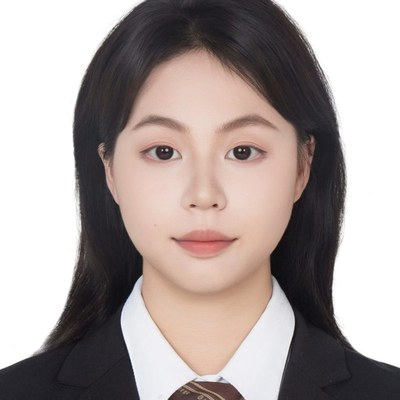
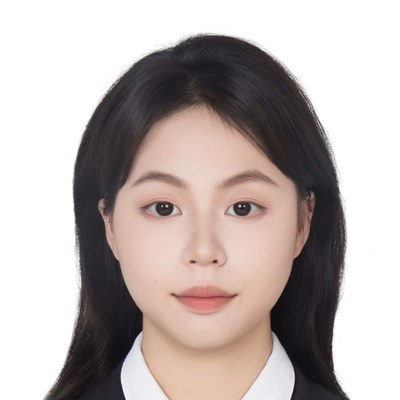
喜报补国自然面上项目名称；照片顶部偏置重裁+缓存参数

diff --git a/index.html b/index.html
@@ -181,7 +181,7 @@
       <li class="reveal" tabindex="0" data-link="https://doi.org/10.1016/j.ipm.2026.105180" data-detail="论文发表于 Information Processing &amp; Management（IF 8.0）：提出多尺度时序超图神经主题模型，从电子病历中挖掘潜在治疗模式。论文解读详见「数医智研」微信公众号。"><time datetime="2026-09">2026.09</time><div><strong>A multi-scale temporal hypergraph neural topic model for treatment pattern mining</strong><span>发表于 Information Processing &amp; Management（IF 8.0）· 详见「数医智研」公众号</span></div></li>
       <li class="reveal" tabindex="0" data-link="https://www.ijcai.org/proceedings/2026/891" data-detail="会议论文发表于人工智能顶级会议 IJCAI 2026：系统综述视觉-时空融合在交通预测中的跨模态对齐研究进展。"><time datetime="2026-09">2026.09</time><div><strong>Towards Vision-Spatiotemporal Fusion in Traffic Forecasting: A Survey on Cross-Modal Alignment</strong><span>发表于 IJCAI 2026 · 人工智能顶级会议</span></div></li>
       <li class="reveal" tabindex="0" data-detail="研究组 GitHub Pages 主页正式上线，包含研究组简介、研究方向、负责人介绍、新闻动态与加入我们等板块，将持续更新团队动态与研究成果。源码托管于 GitHub 组织 magic-lab-cdutcm，站点地址 magic-lab-cdutcm.github.io。"><time datetime="2026-09">2026.09</time><div><strong>MAGIC Lab 主页上线</strong><span>研究组 GitHub Pages 主页建成，持续更新动态与成果。</span></div></li>
-      <li class="reveal" tabindex="0" data-detail="国家自然科学基金委员会公布 2026 年度集中接收期项目评审结果，MAGIC Lab 获批国家自然科学基金面上项目。国家级项目的持续支持，将为团队在中医药数智化、医学人工智能方向的深入研究提供保障。喜报全文详见「数医智研」微信公众号。"><time datetime="2026-08">2026.08</time><div><strong>喜报 | MAGIC Lab 获批国家自然科学基金面上项目</strong><span>详见「数医智研」微信公众号。</span></div></li>
+      <li class="reveal" tabindex="0" data-detail="国家自然科学基金委员会公布 2026 年度集中接收期项目评审结果，MAGIC Lab 获批国家自然科学基金面上项目：「基于数字孪生与多智能体系统的针刺治疗偏头痛“虚拟脑”模型构建及应用研究」。国家级项目的持续支持，将为团队在中医药数智化、医学人工智能方向的深入研究提供保障。喜报全文详见「数医智研」微信公众号。"><time datetime="2026-08">2026.08</time><div><strong>喜报 | MAGIC Lab 获批国家自然科学基金面上项目</strong><span>「基于数字孪生与多智能体系统的针刺治疗偏头痛“虚拟脑”模型构建及应用研究」</span></div></li>
       <li class="reveal" tabindex="0" data-link="https://ieeexplore.ieee.org/abstract/document/11592597" data-detail="论文被 IEEE TKDE（IF 11.6）接收：提出多核化模糊粒离群检测器，延续团队在粒计算与离群检测方向的积累。"><time datetime="2026-06">2026.06</time><div><strong>Multi-Kernelized Fuzzy Granular Outlier Detector</strong><span>被 IEEE TKDE 接收（IF 11.6）· 粒计算离群检测方向</span></div></li>
       <li class="reveal" tabindex="0" data-link="https://ieeexplore.ieee.org/document/11657539" data-detail="论文被 IEEE Transactions on Multimedia 接收：提出协同多尺度个体与全局标签视角的标签分布学习方法。"><time datetime="2026-06">2026.06</time><div><strong>Label Distribution Learning via Collaborative Multi-Scale Individual and Global Label Perspectives</strong><span>被 IEEE Transactions on Multimedia 接收 · 标签分布学习方向</span></div></li>
       <li class="reveal" tabindex="0" data-link="https://www.sciencedirect.com/science/article/abs/pii/S1566253526002745" data-detail="论文被 Information Fusion（IF 17.4）接收：提出可解释混合域融合网络，用于主观记忆下降的早期智能诊断。"><time datetime="2026-04">2026.04</time><div><strong>An Interpretable Hybrid-Domain Fusion Network for Subjective Memory Concern Diagnosis</strong><span>被 Information Fusion 接收（IF 17.4）· 医工交叉方向</span></div></li>
@@ -214,7 +214,7 @@
     <p class="team-group reveal">教师 · FACULTY</p>
     <ul class="member-grid">
       <li class="member reveal">
-        <img class="m-avatar" src="assets/members/yang-yanrong.jpg" alt="杨彦荣照片">
+        <img class="m-avatar" src="assets/members/yang-yanrong.jpg?v=2" alt="杨彦荣照片">
         <h3 class="m-name">杨彦荣<span class="m-role">讲师 · 助理研究员</span></h3>
         <p class="m-dir">医学数据处理 · 智能计算 · 自适应光学</p>
         <p class="m-intro">长期从事人眼视光学与医工交叉研究，主持四川省自然科学基金一项，参研多项国家级项目。研究兴趣涵盖计算成像、数字图像处理与智能计算。</p>
@@ -226,7 +226,7 @@
       <span class="grade-label"><b>2024</b><i>级</i></span>
       <ul class="member-grid">
       <li class="member reveal">
-        <img class="m-avatar" src="assets/members/zhao-yuxin.jpg" alt="赵宇心照片">
+        <img class="m-avatar" src="assets/members/zhao-yuxin.jpg?v=2" alt="赵宇心照片">
         <h3 class="m-name">赵宇心<span class="m-role">2024级 · 中医药信息学</span></h3>
         <p class="m-dir">医学数据处理</p>
         <p class="m-meta"><a href="mailto:z1898260@163.com">z1898260@163.com</a></p>
@@ -237,13 +237,13 @@
       <span class="grade-label"><b>2025</b><i>级</i></span>
       <ul class="member-grid">
       <li class="member reveal">
-        <img class="m-avatar" src="assets/members/xiao-maolin.jpg" alt="肖茂淋照片">
+        <img class="m-avatar" src="assets/members/xiao-maolin.jpg?v=2" alt="肖茂淋照片">
         <h3 class="m-name">肖茂淋<span class="m-role">2025级 · 中医药人工智能</span></h3>
         <p class="m-dir">医学数据处理 · 大模型 · 药物发现</p>
         <p class="m-meta"><a href="mailto:xiaomaolin86@163.com">xiaomaolin86@163.com</a></p>
       </li>
       <li class="member reveal">
-        <img class="m-avatar" src="assets/members/chen-bowen.jpg" alt="陈博文照片">
+        <img class="m-avatar" src="assets/members/chen-bowen.jpg?v=2" alt="陈博文照片">
         <h3 class="m-name">陈博文<span class="m-role">2025级 · 生物医学工程</span></h3>
         <p class="m-dir">医学数据处理 · 药物发现</p>
         <p class="m-intro">中国人工智能学会会员，参与中药多靶标智筛平台开发，致力于 AI 药物建模、虚拟筛选与多靶标活性预测。</p>
@@ -255,19 +255,19 @@
       <span class="grade-label"><b>2026</b><i>级</i></span>
       <ul class="member-grid">
       <li class="member reveal">
-        <img class="m-avatar" src="assets/members/yan-huan.jpg" alt="严欢照片">
+        <img class="m-avatar" src="assets/members/yan-huan.jpg?v=2" alt="严欢照片">
         <h3 class="m-name">严欢<span class="m-role">2026级 · 中医药人工智能</span></h3>
         <p class="m-dir">医学数据处理</p>
         <p class="m-meta"><a href="mailto:2026ks707@stu.cdutcm.edu.cn">2026ks707@stu.cdutcm.edu.cn</a></p>
       </li>
       <li class="member reveal">
-        <img class="m-avatar" src="assets/members/lv-chengchun.jpg" alt="吕程春照片">
+        <img class="m-avatar" src="assets/members/lv-chengchun.jpg?v=2" alt="吕程春照片">
         <h3 class="m-name">吕程春<span class="m-role">2026级 · 中医药人工智能</span></h3>
         <p class="m-dir">药物发现</p>
         <p class="m-meta"><a href="mailto:2058255035@qq.com">2058255035@qq.com</a><a href="https://github.com/cc1cc1cc" target="_blank" rel="noopener">GitHub ↗</a></p>
       </li>
       <li class="member reveal">
-        <img class="m-avatar" src="assets/members/kou-tianzhang.jpg" alt="寇天长照片">
+        <img class="m-avatar" src="assets/members/kou-tianzhang.jpg?v=2" alt="寇天长照片">
         <h3 class="m-name">寇天长<span class="m-role">2026级 · 生物医学工程图像处理</span></h3>
         <p class="m-dir">针灸多模态</p>
         <p class="m-meta"><a href="mailto:2846695471@qq.com">2846695471@qq.com</a></p>
@@ -279,13 +279,13 @@
       <span class="grade-label"><b>2023</b><i>级</i></span>
       <ul class="member-grid">
       <li class="member reveal">
-        <img class="m-avatar" src="assets/members/cao-shu.jpg" alt="曹术照片">
+        <img class="m-avatar" src="assets/members/cao-shu.jpg?v=2" alt="曹术照片">
         <h3 class="m-name">曹术<span class="m-role">2023级 · 智能医学工程</span></h3>
         <p class="m-dir">医学数据处理 · 智能计算</p>
         <p class="m-meta"><a href="mailto:3462162794@qq.com">3462162794@qq.com</a></p>
       </li>
       <li class="member reveal">
-        <img class="m-avatar" src="assets/members/liu-jinpei.jpg" alt="刘津佩照片">
+        <img class="m-avatar" src="assets/members/liu-jinpei.jpg?v=2" alt="刘津佩照片">
         <h3 class="m-name">刘津佩<span class="m-role">2023级 · 智能医学工程</span></h3>
         <p class="m-dir">医学数据处理</p>
         <p class="m-meta"><a href="mailto:Liujp301@163.com">Liujp301@163.com</a></p>
